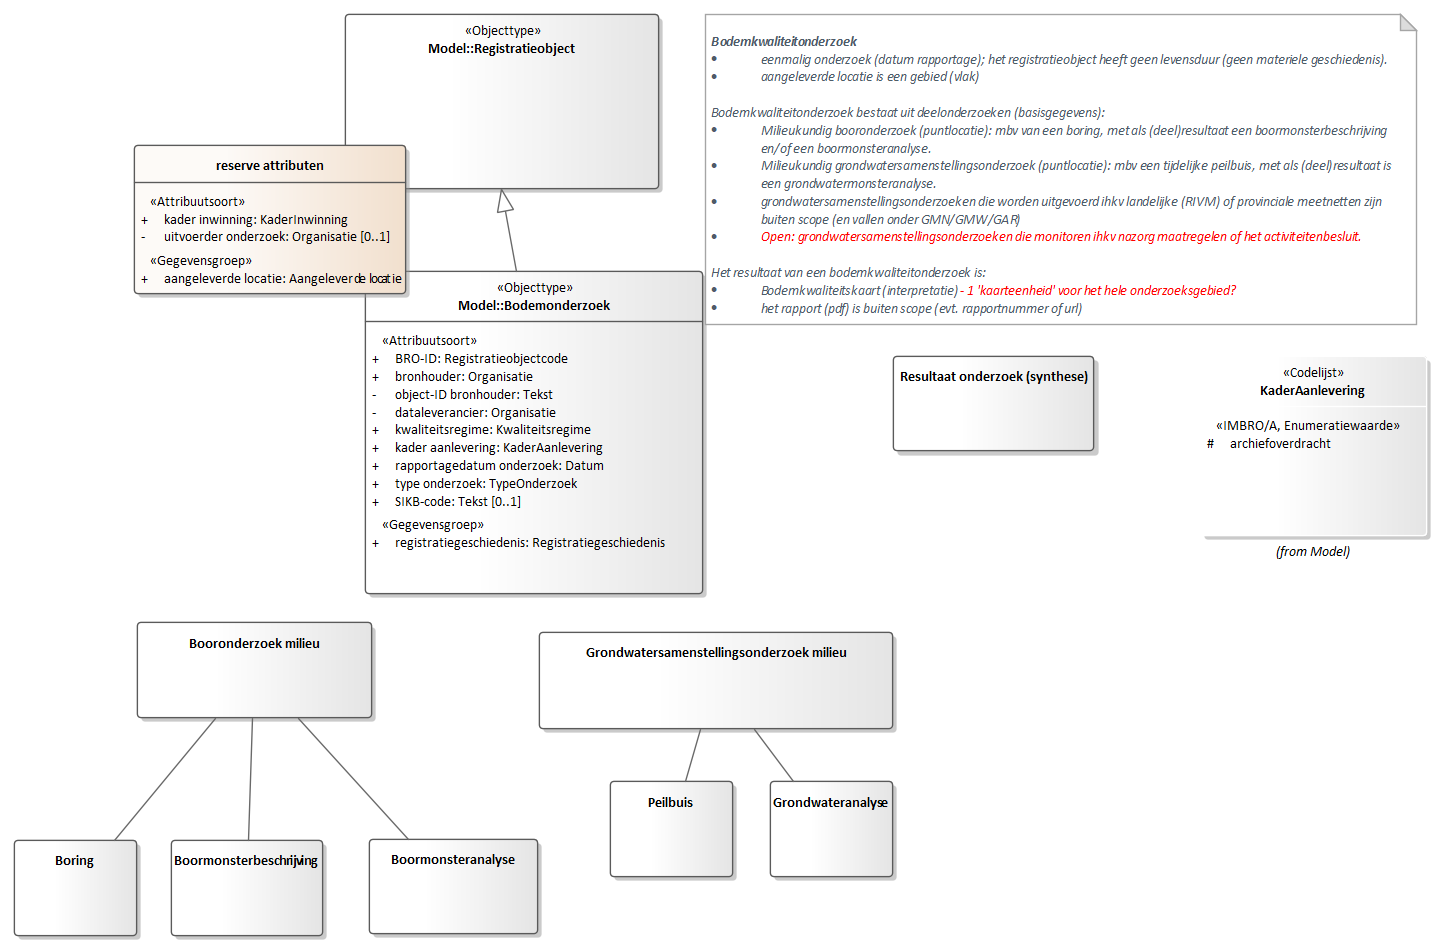
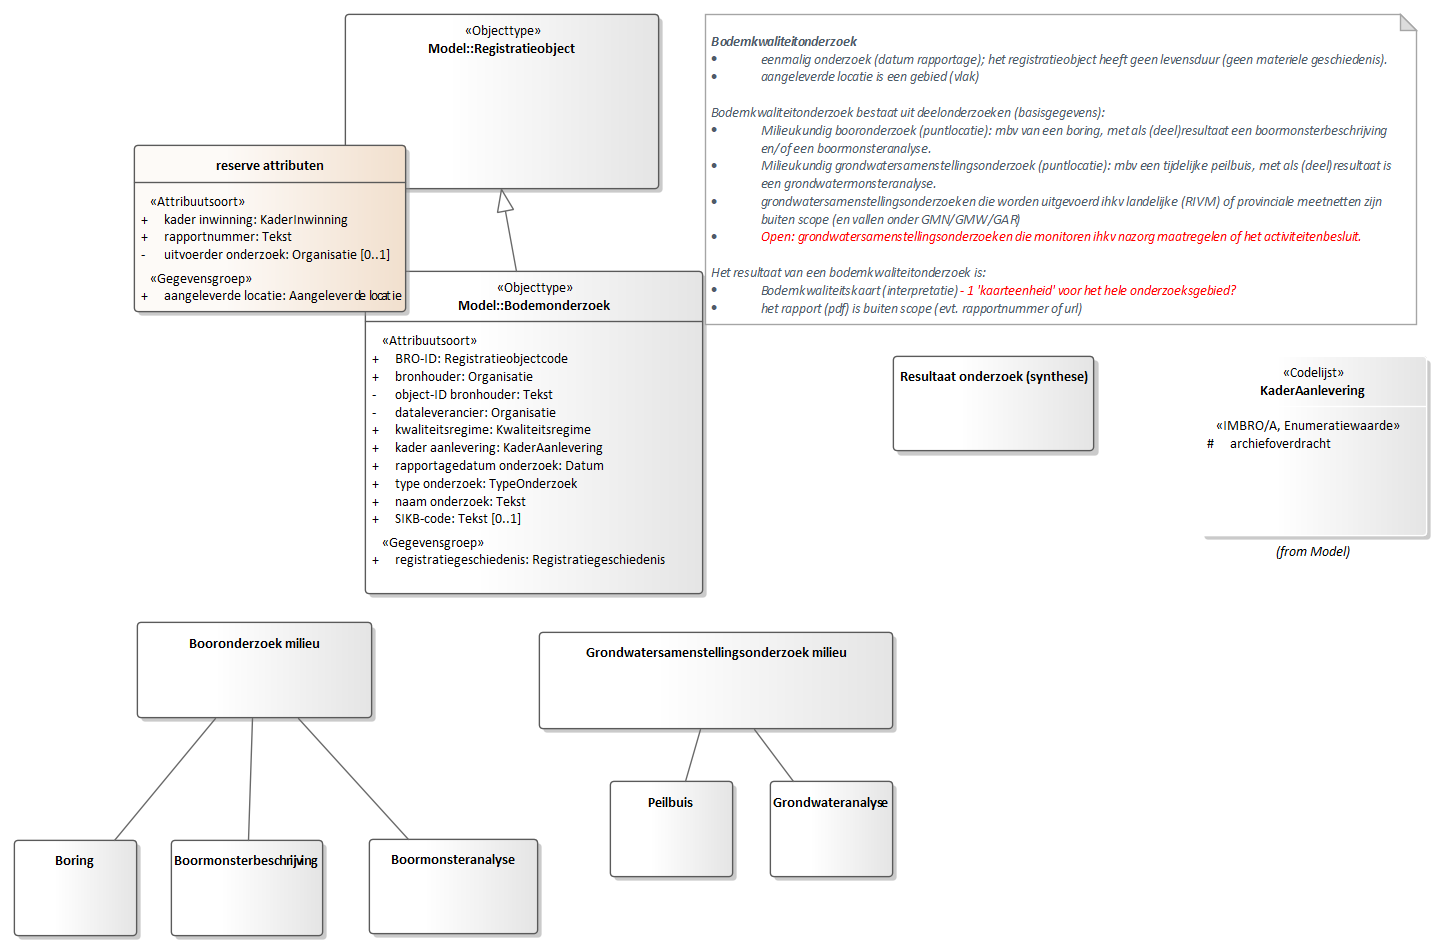
Conceptualmodel-BodemkwaliteitonderzoekSAD-1.0-1-20221101-20221201-142931

Changed region(s): [[0.0936, 0.244, 0.2807, 0.3354], [0.2495, 0.5184, 0.4678, 0.6099]]

diff --git a/data/SAD-cat.msword.html b/data/SAD-cat.msword.html
@@ -15,7 +15,7 @@
    <body>
       <p>Conceptual model/Bodemkwaliteitonderzoek SAD/20221101</p>
       <p>Imvertor: 1.67.1</p>
-      <p>Model release: Conceptualmodel-BodemkwaliteitonderzoekSAD-1.0-1-20221101-20221201-080002</p>
+      <p>Model release: Conceptualmodel-BodemkwaliteitonderzoekSAD-1.0-1-20221101-20221201-142931</p>
       <hr>
       <section>
          <h1>Artikel 1 Definitie van registratieobject, entiteiten en attributen</h1>
@@ -67,7 +67,7 @@
          <section>
             <h2>Het domeinmodel</h2>
             <section id="">
-               <div class="imageinfo overview"><img src="Images/EAID_FABA90F8_223C_433d_BAE3_74F87B3DC220.png" usemap="#imagemap-EAID_FABA90F8_223C_433d_BAE3_74F87B3DC220" alt="Diagram &#xA;                        &#xA;                     "><map name="imagemap-EAID_FABA90F8_223C_433d_BAE3_74F87B3DC220"><area shape="rect" alt="Bodemonderzoek" coords="14,14,386,323" href="#graph_EAID_ABAADB49_C747_4775_A739_CC832CAD59F1"></map><p><b>Domeinmodel milieuhygiënisch bodemonderzoek</b></p>
+               <div class="imageinfo overview"><img src="Images/EAID_FABA90F8_223C_433d_BAE3_74F87B3DC220.png" usemap="#imagemap-EAID_FABA90F8_223C_433d_BAE3_74F87B3DC220" alt="Diagram &#xA;                        &#xA;                     "><map name="imagemap-EAID_FABA90F8_223C_433d_BAE3_74F87B3DC220"><area shape="rect" alt="Bodemonderzoek" coords="14,14,386,341" href="#graph_EAID_ABAADB49_C747_4775_A739_CC832CAD59F1"></map><p><b>Domeinmodel milieuhygiënisch bodemonderzoek</b></p>
                </div>
             </section>
          </section>
@@ -75,7 +75,7 @@
             <h2>Entiteiten en attributen</h2>
             <section id=""><a class="anchor" id="graph_EAID_ABAADB49_C747_4775_A739_CC832CAD59F1"></a><a class="anchor" id="global_class_Model_Bodemonderzoek"></a><section id="global_class_Model_Bodemonderzoek">
                   <h3>   Bodemonderzoek</h3>
-                  <div class="imageinfo "><img src="Images/EAID_6947001B_5B81_47f2_B8DC_8E20C90445C9.png" usemap="#imagemap-EAID_6947001B_5B81_47f2_B8DC_8E20C90445C9" alt="Diagram "><map name="imagemap-EAID_6947001B_5B81_47f2_B8DC_8E20C90445C9"><area shape="rect" alt="Bodemonderzoek" coords="14,14,434,319" href="#graph_EAID_ABAADB49_C747_4775_A739_CC832CAD59F1"></map><p><b></b></p>
+                  <div class="imageinfo "><img src="Images/EAID_6947001B_5B81_47f2_B8DC_8E20C90445C9.png" usemap="#imagemap-EAID_6947001B_5B81_47f2_B8DC_8E20C90445C9" alt="Diagram "><map name="imagemap-EAID_6947001B_5B81_47f2_B8DC_8E20C90445C9"><area shape="rect" alt="Bodemonderzoek" coords="14,14,434,337" href="#graph_EAID_ABAADB49_C747_4775_A739_CC832CAD59F1"></map><p><b></b></p>
                   </div>
                   <table style="width: 100%;">
                      <colgroup style="width: 30%;"></colgroup>
@@ -471,7 +471,7 @@
                               <th>Definitie</th>
                               <td>
                                  
-                                 <p>Het type onderzoek dat is uitgevoerd</p>
+                                 <p>Het type onderzoek dat is uitgevoerd.</p>
                                  </td>
                            </tr>
                            <tr>
@@ -495,6 +495,49 @@
                            <tr>
                               <th>&nbsp;&nbsp;Type</th>
                               <td>Waardelijst uitbreidbaar</td>
+                           </tr>
+                        </tbody>
+                     </table>
+                     </section><a class="anchor" id="detail_attribute_Model_Bodemonderzoek_naamonderzoek"></a><section id="detail_attribute_Model_Bodemonderzoek_naamonderzoek">
+                     <h4>  naam onderzoek</h4>
+                     
+                     <table style="width: 100%;">
+                        <colgroup style="width: 30%;"></colgroup>
+                        <colgroup style="width: 70%;"></colgroup>
+                        <tbody>
+                           <tr>
+                              <th>Type gegeven</th>
+                              <td>Attribuut van Bodemonderzoek</td>
+                           </tr>
+                           <tr>
+                              <th>Definitie</th>
+                              <td>
+                                 
+                                 <p>De herkenbare naam van het onderzoek.</p>
+                                 </td>
+                           </tr>
+                           <tr>
+                              <th>Juridische status</th>
+                              <td>Authentiek</td>
+                           </tr>
+                           <tr>
+                              <th>Kardinaliteit</th>
+                              <td>1</td>
+                           </tr>
+                           <tr>
+                              <th>Domein</th>
+                              <td></td>
+                           </tr>
+                           <tr>
+                              <th>&nbsp;&nbsp;Naam</th>
+                              <td>Tekst </td>
+                           </tr>
+                           <tr>
+                              <th>Toelichting</th>
+                              <td>
+                                 
+                                 <p>De naam is door de uitvoerder van het onderzoek toegekend aan het onderzoek.</p>
+                                 </td>
                            </tr>
                         </tbody>
                      </table>
@@ -545,7 +588,7 @@
                            </tr>
                         </tbody>
                      </table>
-                     </section><a class="anchor" id="detail_d14640e1969"></a><section id="detail_d14640e1969">
+                     </section><a class="anchor" id="detail_d15117e2125"></a><section id="detail_d15117e2125">
                      <h4>  registratiegeschiedenis</h4>
                      <table style="width: 100%;">
                         <colgroup style="width: 30%;"></colgroup>

diff --git a/data/SAD-cat.respec.html b/data/SAD-cat.respec.html
@@ -45,13 +45,13 @@
       </section>
    <section id="">
       <h2>Het domeinmodel   </h2>
-      <div class="imageinfo overview"><img src="data/Images/EAID_FABA90F8_223C_433d_BAE3_74F87B3DC220.png" usemap="#imagemap-EAID_FABA90F8_223C_433d_BAE3_74F87B3DC220" alt="Diagram &#xA;                        &#xA;                     "><map name="imagemap-EAID_FABA90F8_223C_433d_BAE3_74F87B3DC220"><area shape="rect" alt="Bodemonderzoek" coords="14,14,386,323" href="#graph_EAID_ABAADB49_C747_4775_A739_CC832CAD59F1"></map><p><b>Domeinmodel milieuhygiënisch bodemonderzoek</b></p>
+      <div class="imageinfo overview"><img src="data/Images/EAID_FABA90F8_223C_433d_BAE3_74F87B3DC220.png" usemap="#imagemap-EAID_FABA90F8_223C_433d_BAE3_74F87B3DC220" alt="Diagram &#xA;                        &#xA;                     "><map name="imagemap-EAID_FABA90F8_223C_433d_BAE3_74F87B3DC220"><area shape="rect" alt="Bodemonderzoek" coords="14,14,386,341" href="#graph_EAID_ABAADB49_C747_4775_A739_CC832CAD59F1"></map><p><b>Domeinmodel milieuhygiënisch bodemonderzoek</b></p>
       </div>
    </section>
    <section id="">
       <h2>Entiteittypen en attributen   </h2><a class="anchor" id="graph_EAID_ABAADB49_C747_4775_A739_CC832CAD59F1"></a><a class="anchor" id="global_class_Model_Bodemonderzoek"></a><section id="global_class_Model_Bodemonderzoek">
          <h3>   Bodemonderzoek</h3>
-         <div class="imageinfo "><img src="data/Images/EAID_6947001B_5B81_47f2_B8DC_8E20C90445C9.png" usemap="#imagemap-EAID_6947001B_5B81_47f2_B8DC_8E20C90445C9" alt="Diagram "><map name="imagemap-EAID_6947001B_5B81_47f2_B8DC_8E20C90445C9"><area shape="rect" alt="Bodemonderzoek" coords="14,14,434,319" href="#graph_EAID_ABAADB49_C747_4775_A739_CC832CAD59F1"></map><p><b></b></p>
+         <div class="imageinfo "><img src="data/Images/EAID_6947001B_5B81_47f2_B8DC_8E20C90445C9.png" usemap="#imagemap-EAID_6947001B_5B81_47f2_B8DC_8E20C90445C9" alt="Diagram "><map name="imagemap-EAID_6947001B_5B81_47f2_B8DC_8E20C90445C9"><area shape="rect" alt="Bodemonderzoek" coords="14,14,434,337" href="#graph_EAID_ABAADB49_C747_4775_A739_CC832CAD59F1"></map><p><b></b></p>
          </div>
          <table style="width: 100%;">
             <colgroup style="width: 30%;"></colgroup>
@@ -447,7 +447,7 @@
                      <th>Definitie</th>
                      <td>
                         
-                        <p>Het type onderzoek dat is uitgevoerd</p>
+                        <p>Het type onderzoek dat is uitgevoerd.</p>
                         </td>
                   </tr>
                   <tr>
@@ -471,6 +471,49 @@
                   <tr>
                      <th>&nbsp;&nbsp;Type</th>
                      <td>Waardelijst uitbreidbaar</td>
+                  </tr>
+               </tbody>
+            </table>
+            </section><a class="anchor" id="detail_attribute_Model_Bodemonderzoek_naamonderzoek"></a><section id="detail_attribute_Model_Bodemonderzoek_naamonderzoek">
+            <h4>  naam onderzoek</h4>
+            
+            <table style="width: 100%;">
+               <colgroup style="width: 30%;"></colgroup>
+               <colgroup style="width: 70%;"></colgroup>
+               <tbody>
+                  <tr>
+                     <th>Type gegeven</th>
+                     <td>Attribuut van Bodemonderzoek</td>
+                  </tr>
+                  <tr>
+                     <th>Definitie</th>
+                     <td>
+                        
+                        <p>De herkenbare naam van het onderzoek.</p>
+                        </td>
+                  </tr>
+                  <tr>
+                     <th>Juridische status</th>
+                     <td>Authentiek</td>
+                  </tr>
+                  <tr>
+                     <th>Kardinaliteit</th>
+                     <td>1</td>
+                  </tr>
+                  <tr>
+                     <th>Domein</th>
+                     <td></td>
+                  </tr>
+                  <tr>
+                     <th>&nbsp;&nbsp;Naam</th>
+                     <td>Tekst </td>
+                  </tr>
+                  <tr>
+                     <th>Toelichting</th>
+                     <td>
+                        
+                        <p>De naam is door de uitvoerder van het onderzoek toegekend aan het onderzoek.</p>
+                        </td>
                   </tr>
                </tbody>
             </table>
@@ -521,7 +564,7 @@
                   </tr>
                </tbody>
             </table>
-            </section><a class="anchor" id="detail_d14640e1969"></a><section id="detail_d14640e1969">
+            </section><a class="anchor" id="detail_d15117e2125"></a><section id="detail_d15117e2125">
             <h4>  registratiegeschiedenis</h4>
             <table style="width: 100%;">
                <colgroup style="width: 30%;"></colgroup>
